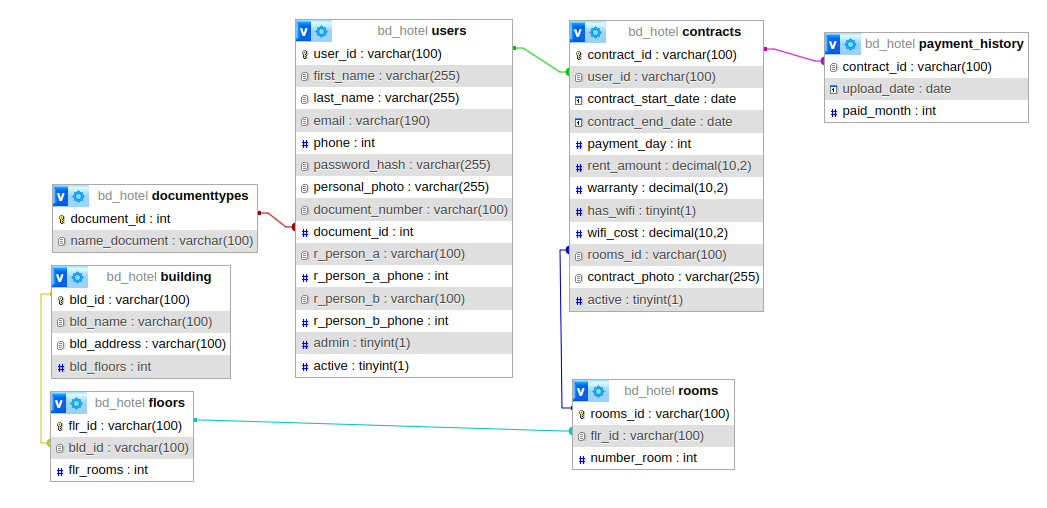
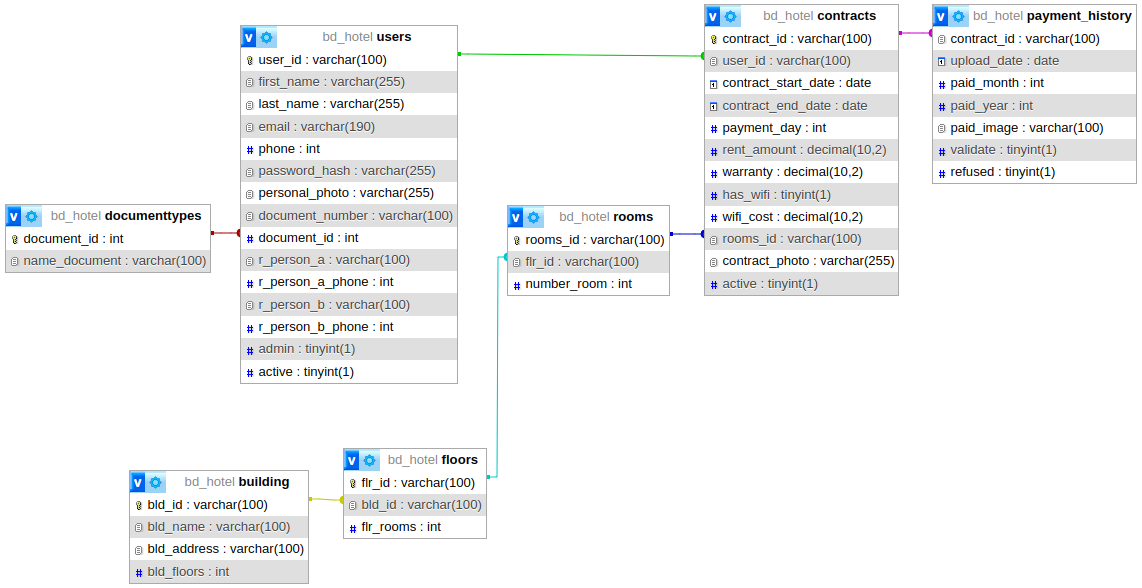
Funcion retornar meses por pagar

diff --git a/src/routes/index_routes.js b/src/routes/index_routes.js
@@ -7,7 +7,7 @@ import { fileURLToPath } from "url";
 import { v4 as uuidv4 } from "uuid";
 import sharp from "sharp";
 import { hashPassword, checkPassword } from "../js/hashpass.js";
-import { loginUser, searchContracs } from "../js/connection.js";
+import { loginUser, searchContracs, monthPending } from "../js/connection.js";
 
 //Instancia de Rutas
 const router = Router();
@@ -59,7 +59,14 @@ router.get("/prfl_user", (req, res) => {
 
 //*************************************************************************************************************************************************************
 
-// CONSULSTAS**************************************************************************************************************************************************
+// CONSULSTAS*
+
+//********************//
+//                    //
+//  DATO DE CONTRATOS //
+//                    //
+//********************//
+
 router.get("/vwctrt/:searchDoc", async (req, res) => {
     try {
       const contractInfo = await searchContracs(req.params.searchDoc);
@@ -81,6 +88,32 @@ router.get("/vwctrt/:searchDoc", async (req, res) => {
       res.status(500).json({ success: false, message: "Error interno del servidor" });
     }
   });
-  
+
+//********************//
+//                    //
+//   MESES POR PAGAR  //
+//                    //
+//********************//
+router.get("/pdmth/:MonthUnPaid", async (req, res) => {
+  try {
+    // Validar el parámetro MonthUnPaid aquí si es necesario...
+    let data = await monthPending(req.params.MonthUnPaid);
+    console.log(data);
+    
+    if (data.length === 0) {
+      return res.status(404).json({ success: false, message: "No se encontraron datos para el mes proporcionado" });
+    }
+    
+    const paidDate = new Date(data[0].paid_date);
+    const year = paidDate.getUTCFullYear(); // Año
+    const month = String(paidDate.getUTCMonth() + 1).padStart(2, '0'); // Mes
+    data[0].paid_date = `${year}-${month}`;
+    
+    res.json({success: true, data: data[0]});
+  } catch (error) {
+    console.error('Error en el endpoint /pdmth/:MonthUnPaid', error);
+    res.status(500).json({ success: false, message: "Error interno del servidor" });
+  }
+});
 
 export default router;

diff --git a/src/public/js/prfluser.js b/src/public/js/prfluser.js
@@ -1,9 +1,17 @@
 document.addEventListener("DOMContentLoaded", (event) => {
+
   const selectElement = document.getElementById("select_ctr");
   selectElement.addEventListener("change", (event) => {
     const selectedValue = event.target.value;
     handleSelectChange(selectedValue);
   });
+
+  const selectMonth = document.getElementById("select_payment");
+  selectMonth.addEventListener('change', (event) => {
+    const selectedValueCrt = event.target.value;
+    handleSelectContract(selectedValueCrt);
+  });
+
 });
 
 function handleSelectChange(value) {
@@ -32,4 +40,36 @@ function handleSelectChange(value) {
       } else alert(info.message);
     })
     .catch((error) => console.error("Error:", error));
-}
+};
+
+function handleSelectContract(value){
+  fetch(`/pdmth/${value}`)
+  .then((response) => response.json())
+  .then((info) => {
+    if(info.success){
+      const endPaid = info.data.paid_date
+      const objectDate = new Date();
+      const monthToday = `${objectDate.getFullYear()}-${objectDate.getMonth() + 1}`
+ 
+      function SerchMonthUnPaid(dateInit, dateEnd) {
+        let init = new Date(dateInit);
+        let end = new Date(dateEnd);
+        init.setMonth(init.getMonth() + 1); // Ajustamos para no incluir el mes de la fecha Final
+      
+        let listMonth = [];
+      
+        while (init < end) {
+          listMonth.push(`${init.getFullYear()}-${String(init.getMonth() + 1).padStart(2, '0')}`);
+          init.setMonth(init.getMonth() + 1);
+        }
+      
+        return listMonth;
+      };
+
+      const monthUnPaid = SerchMonthUnPaid(endPaid,monthToday);
+      alert(monthUnPaid);
+    } else alert(info.message);
+
+  })
+  .catch((error) => console.error("Error:", error))
+};

diff --git a/src/js/connection.js b/src/js/connection.js
@@ -114,7 +114,6 @@ async function loginUser(email, password) {
 }
 
 // CONSULTA DE DATA DE CONTRATOS*****************************************************************************************************************************
-
 async function searchContracs(num) {
   try {
     await db.connect();
@@ -124,12 +123,14 @@ async function searchContracs(num) {
       WHERE crt.contract_id = ?`,
       [num]
     );
-
     if (dataContract.length === 0) {
       // No se encontró el usuario con el correo dado
-      return { success: false, message: "Contrato no encontrado." };
-    }
-    return dataContract[0];
+      return { 
+        success: false, 
+        message: "Contrato no encontrado." };
+    };
+      return dataContract[0]
+
   } catch (error) {
     // Manejo de errores durante la conexión a la base de datos o el proceso de consulta
     console.error("Error al buscar el Contrato:", error);
@@ -142,4 +143,30 @@ async function searchContracs(num) {
   }
 }
 
-export { loginUser, searchContracs };
+// BUSCA DE MESES POR PAGAR
+async function monthPending(crt) {
+  try {
+    await db.connect();
+    const pending = await db.query(
+      `SELECT paid_date, validate, refused 
+      FROM payment_history
+      WHERE contract_id = ?
+      ORDER BY paid_date DESC
+      LIMIT 1;
+      `,
+      [crt]
+    );
+    return pending;
+  } catch (error) {
+    // Manejo de errores durante la conexión a la base de datos o el proceso de consulta
+    console.error("Error al consultar la Base de Datos", error);
+    return {
+      success: false,
+      message: "Error al consultar la Base de Datos",
+    };
+  } finally {
+    db.disconnect();
+  }
+}
+
+export { loginUser, searchContracs, monthPending};

diff --git a/test.js b/test.js
@@ -1,0 +1,28 @@
+const fecha = new Date();
+const hoy = fecha.getDate();
+const mes = fecha.getMonth() + 1; 
+const año = fecha.getFullYear();
+
+
+function monthUnPaid(fechaInicio, fechaFin) {
+  let inicio = new Date(fechaInicio);
+  let fin = new Date(fechaFin);
+  inicio.setMonth(inicio.getMonth() + 1); // Ajustamos para no incluir el mes de la fecha final
+
+  let listaMeses = [];
+
+  while (inicio < fin) {
+    listaMeses.push(`${inicio.getFullYear()}-${String(inicio.getMonth() + 1).padStart(2, '0')}`);
+    inicio.setMonth(inicio.getMonth() + 1);
+  }
+
+  return listaMeses;
+}
+
+
+// Ejemplo de uso:
+const endA = '2024-03';
+const hoyA = '2024-06';
+
+const mesesIntermedios = monthUnPaid(endA, hoyA);
+console.log(mesesIntermedios);
